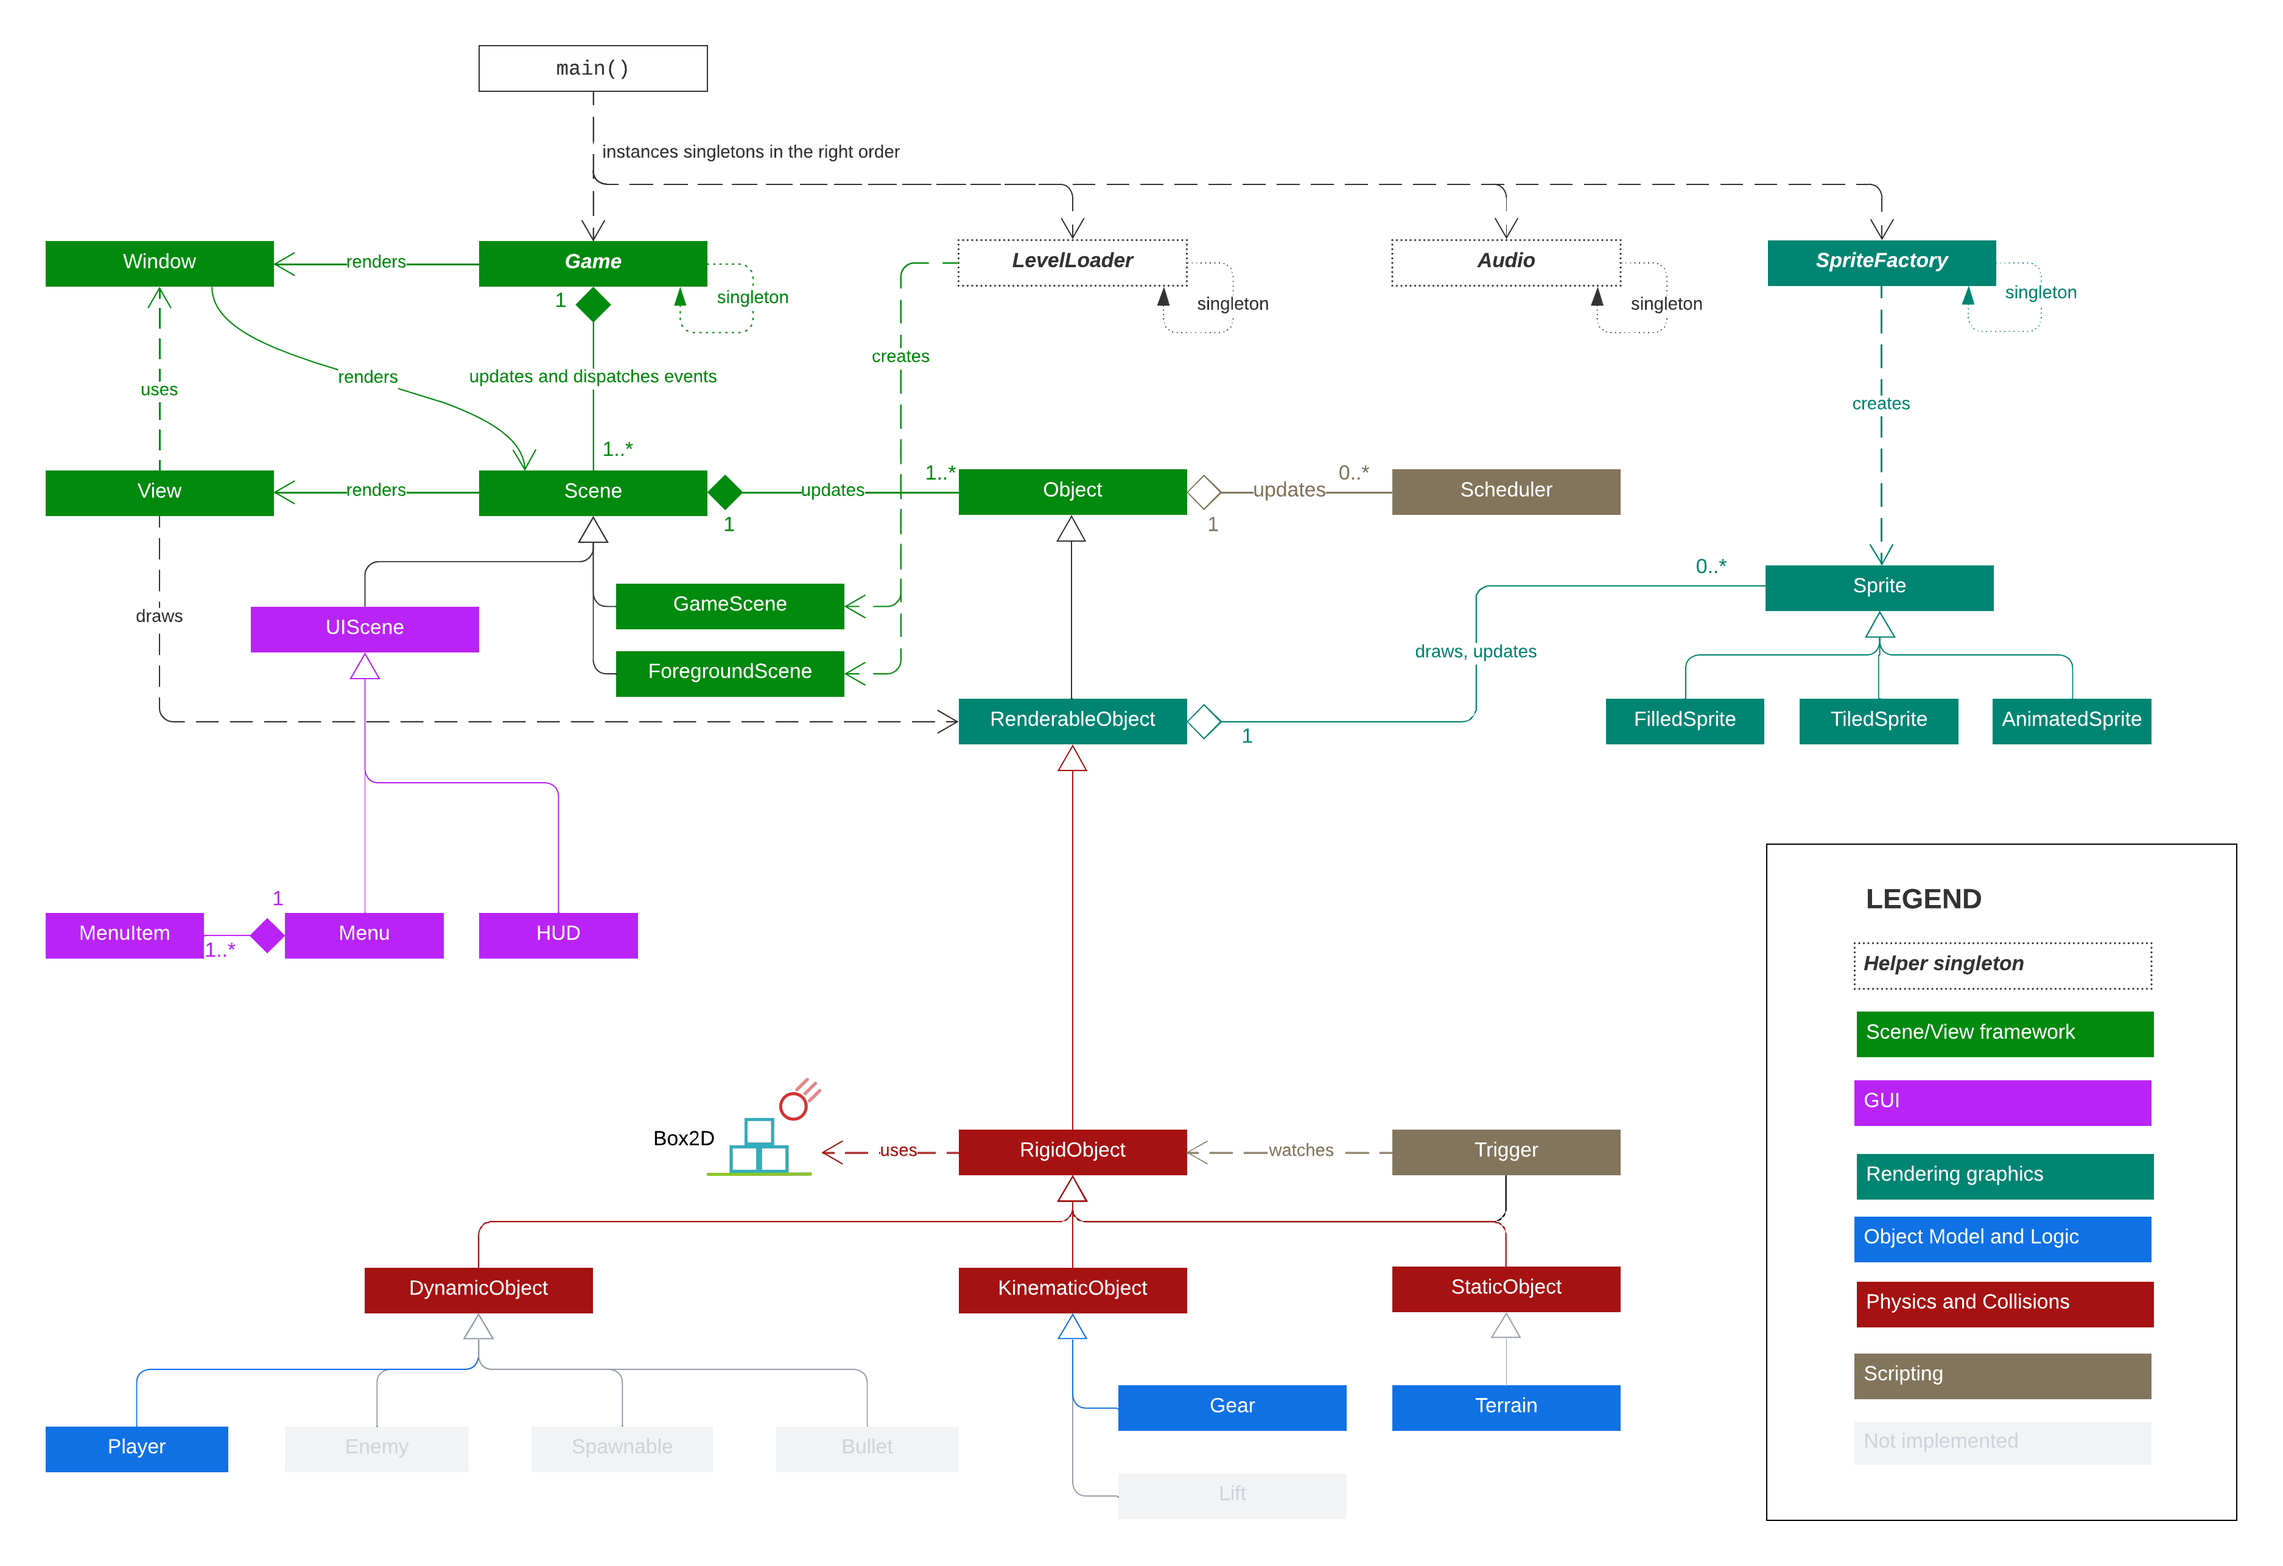
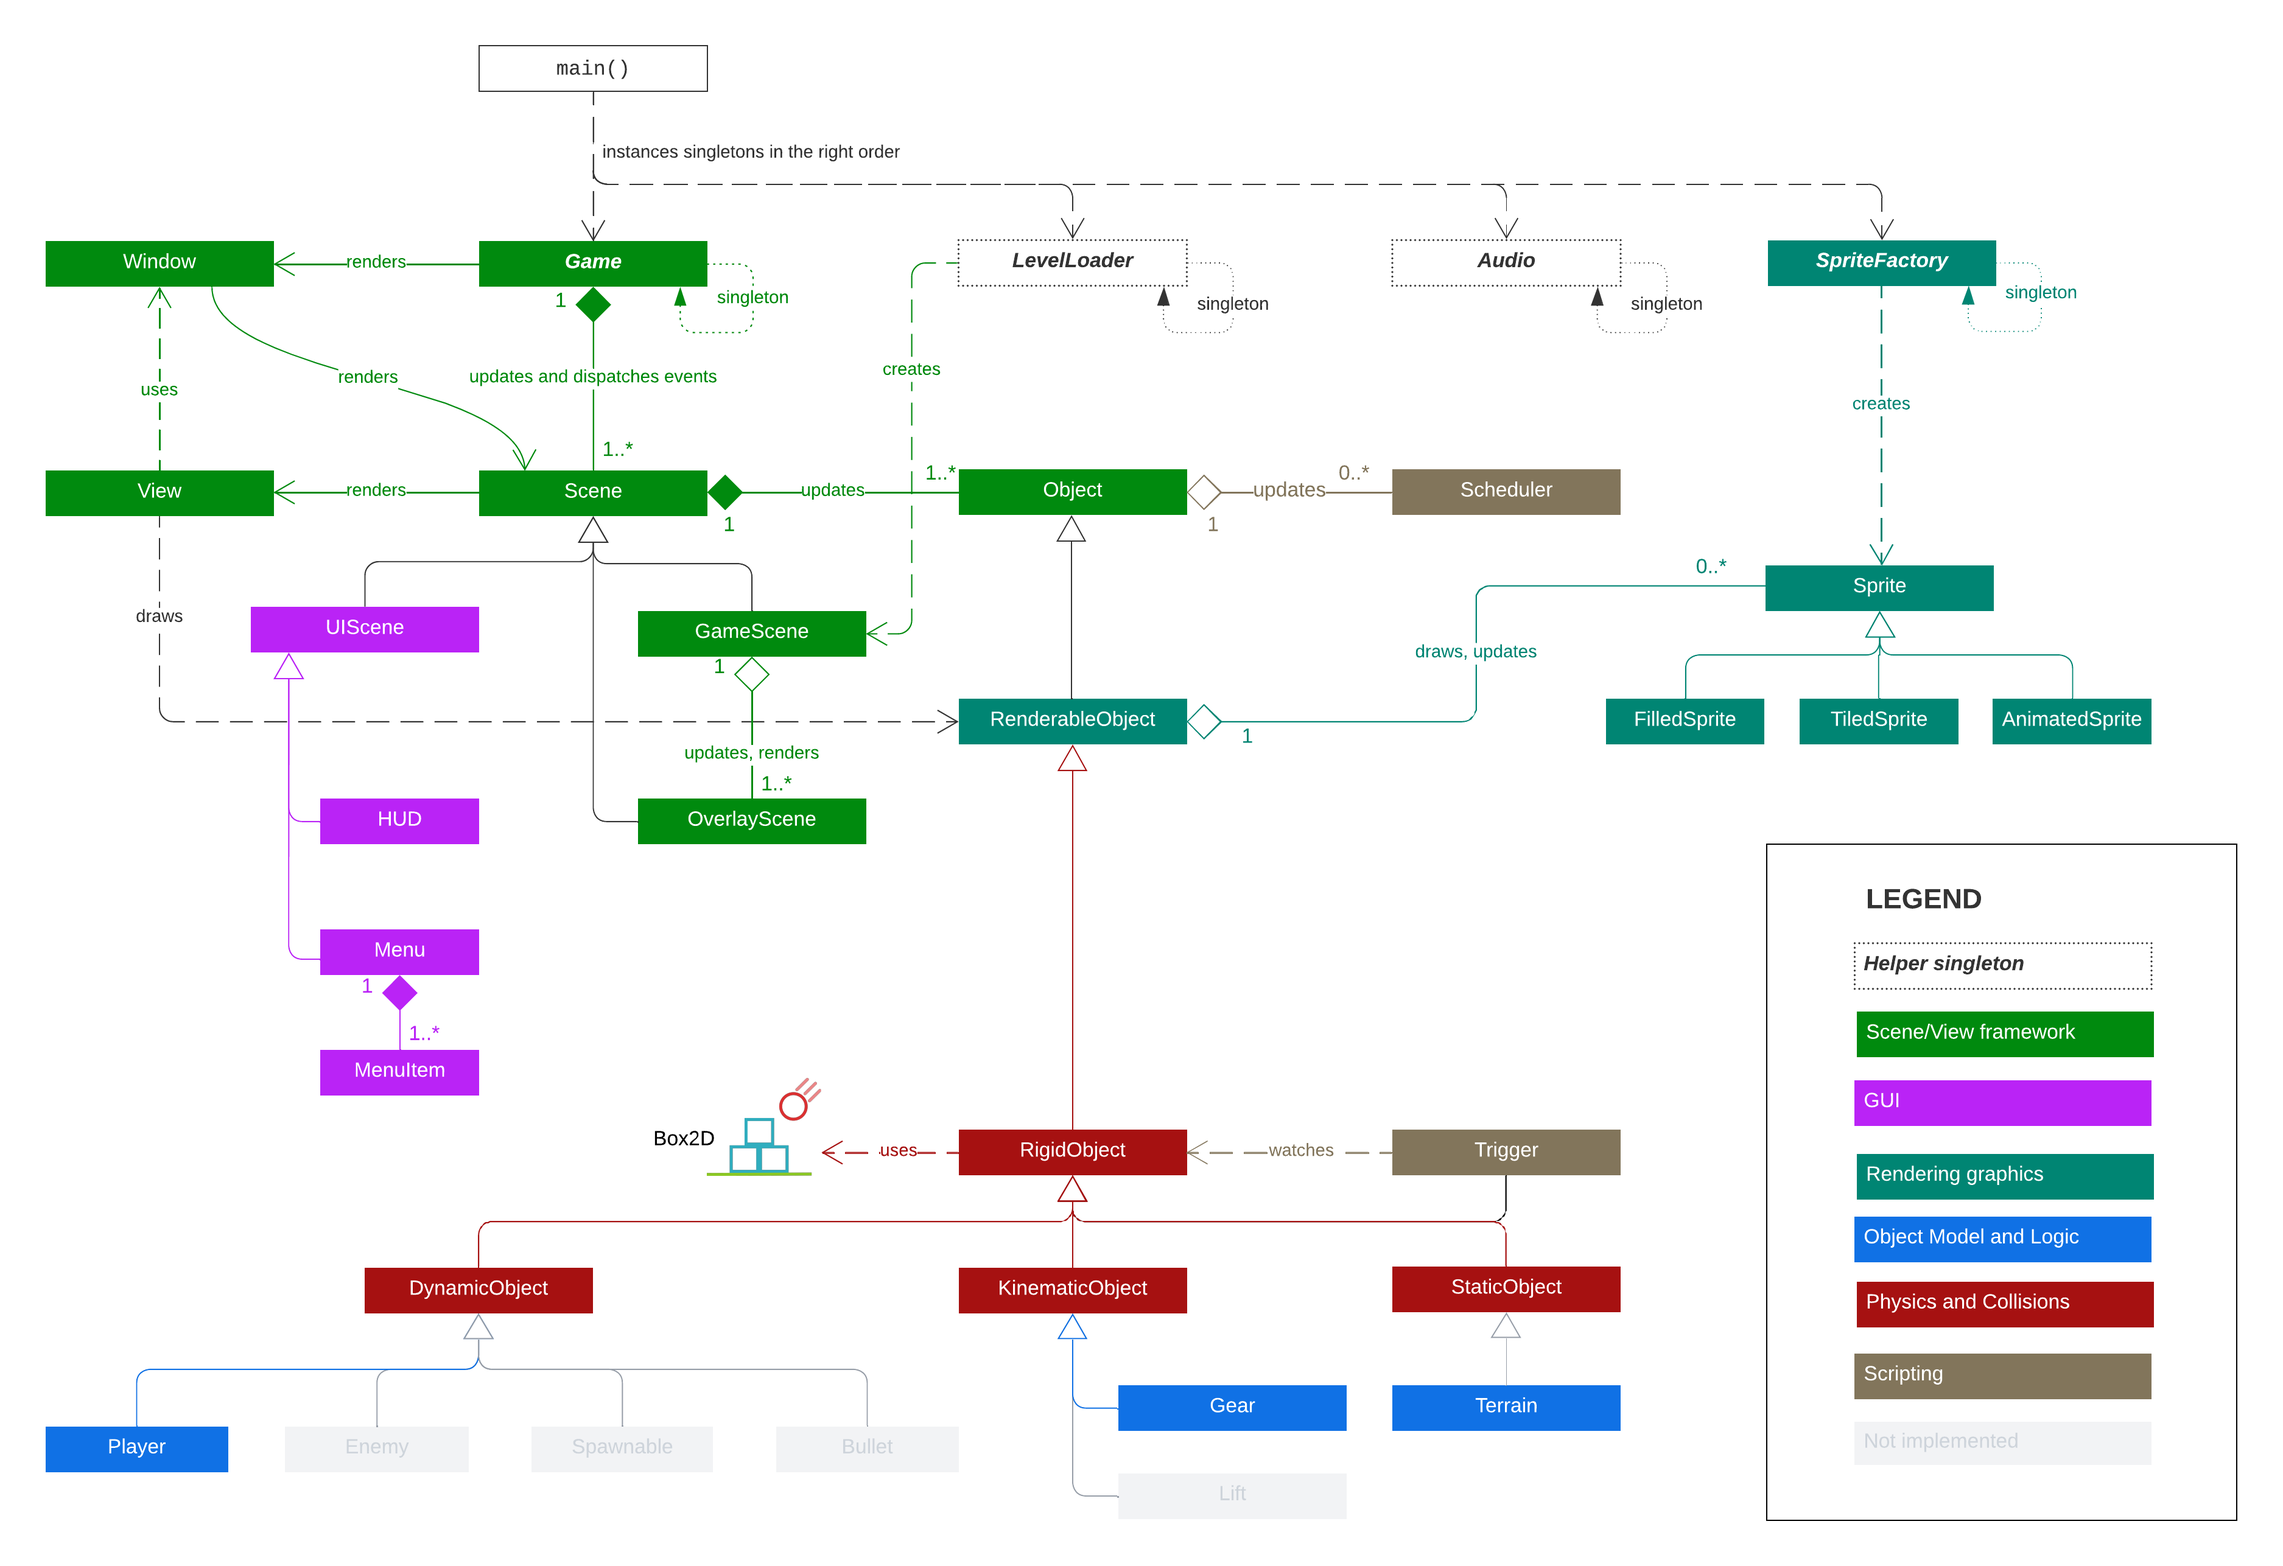
refactoring ForegroundScene into OverlayScene

Changed region(s): [[0.0, 0.4975, 0.2808, 0.7151], [0.2496, 0.3731, 0.4056, 0.5597], [0.3744, 0.2176, 0.4056, 0.2487]]

diff --git a/Proto-ComplexPlatformer-Box2D/GameScene.cpp b/Proto-ComplexPlatformer-Box2D/GameScene.cpp
@@ -16,6 +16,7 @@
 #include "RigidObject.h"
 #include "Player.h"
 #include "Box.h"
+#include "OverlayScene.h"
 
 using namespace agp;
 
@@ -60,6 +61,14 @@ void GameScene::update(float timeToSimulate)
 	if (!_active)
 		return;
 
+
+	// update overlay scenes
+	for (auto& bgScene : _backgroundScenes)
+		bgScene->update(timeToSimulate);
+	for (auto& fgScene : _foregroundScenes)
+		fgScene->update(timeToSimulate);
+
+
 	// controls
 	if (_right_pressed && !_left_pressed)
 	{
@@ -79,55 +88,57 @@ void GameScene::update(float timeToSimulate)
 
 	_player->setRunning(_run_pressed);
 
-	// physics
-	/*_timeToSimulate += timeToSimulate;
+
+	// semi-fixed time step
+	_timeToSimulate += timeToSimulate;
 	while (_timeToSimulate >= _dt)
 	{
+		// Box2D physics
 		b2World_Step(_worldId, _dt, _subStepCount);
 		_timeToSimulate -= _dt;
-	}*/
-	b2World_Step(_worldId, timeToSimulate, _subStepCount);
 
-	// collisions (logic)
-	b2ContactEvents contactEvents = b2World_GetContactEvents(_worldId);
-	for (int i = 0; i < contactEvents.beginCount; ++i)
-	{
-		b2ContactBeginTouchEvent* beginEvent = contactEvents.beginEvents + i;
-	
-		RigidObject* objA = ((RigidObject*)b2Body_GetUserData(b2Shape_GetBody(beginEvent->shapeIdA)));
-		RigidObject* objB = ((RigidObject*)b2Body_GetUserData(b2Shape_GetBody(beginEvent->shapeIdB)));
+		// collisions (logic)
+		b2ContactEvents contactEvents = b2World_GetContactEvents(_worldId);
+		for (int i = 0; i < contactEvents.beginCount; ++i)
+		{
+			b2ContactBeginTouchEvent* beginEvent = contactEvents.beginEvents + i;
 
-		Vec2Df normal = { beginEvent->manifold.normal.x, beginEvent->manifold.normal.y };
+			RigidObject* objA = ((RigidObject*)b2Body_GetUserData(b2Shape_GetBody(beginEvent->shapeIdA)));
+			RigidObject* objB = ((RigidObject*)b2Body_GetUserData(b2Shape_GetBody(beginEvent->shapeIdB)));
 
-		objA->collision(objB, true, normal, beginEvent->shapeIdA, beginEvent->shapeIdB);
-		objB->collision(objA, true, -normal, beginEvent->shapeIdB, beginEvent->shapeIdA);
+			Vec2Df normal = { beginEvent->manifold.normal.x, beginEvent->manifold.normal.y };
+
+			objA->collision(objB, true, normal, beginEvent->shapeIdA, beginEvent->shapeIdB);
+			objB->collision(objA, true, -normal, beginEvent->shapeIdB, beginEvent->shapeIdA);
+		}
+		for (int i = 0; i < contactEvents.endCount; ++i)
+		{
+			b2ContactEndTouchEvent* endEvent = contactEvents.endEvents + i;
+			RigidObject* objA = ((RigidObject*)b2Body_GetUserData(b2Shape_GetBody(endEvent->shapeIdA)));
+			RigidObject* objB = ((RigidObject*)b2Body_GetUserData(b2Shape_GetBody(endEvent->shapeIdB)));
+
+			// once a contact has ended, contact normal is undefined
+			objA->collision(objB, false, Vec2Df(), endEvent->shapeIdA, endEvent->shapeIdB);
+			objB->collision(objA, false, Vec2Df(), endEvent->shapeIdB, endEvent->shapeIdA);
+		}
+
+		// triggers (=sensors in Box2D)
+		b2SensorEvents sensorEvents = b2World_GetSensorEvents(_worldId);
+		for (int i = 0; i < sensorEvents.beginCount; ++i)
+		{
+			b2SensorBeginTouchEvent* beginTouch = sensorEvents.beginEvents + i;
+			RigidObject* objA = ((RigidObject*)b2Body_GetUserData(b2Shape_GetBody(beginTouch->sensorShapeId)));
+			RigidObject* objB = ((RigidObject*)b2Body_GetUserData(b2Shape_GetBody(beginTouch->visitorShapeId)));
+			objA->collision(objB, true, Vec2Df(), beginTouch->sensorShapeId, beginTouch->visitorShapeId);
+		}
+
+		// logic and animations
+		auto allObjects = objects();
+		for (auto& obj : allObjects)
+			if (!obj->freezed())
+				obj->update(timeToSimulate);
 	}
-	for (int i = 0; i < contactEvents.endCount; ++i)
-	{
-		b2ContactEndTouchEvent* endEvent = contactEvents.endEvents + i;
-		RigidObject* objA = ((RigidObject*)b2Body_GetUserData(b2Shape_GetBody(endEvent->shapeIdA)));
-		RigidObject* objB = ((RigidObject*)b2Body_GetUserData(b2Shape_GetBody(endEvent->shapeIdB)));
 
-		// once a contact has ended, contact normal is undefined
-		objA->collision(objB, false, Vec2Df(), endEvent->shapeIdA, endEvent->shapeIdB);
-		objB->collision(objA, false, Vec2Df(), endEvent->shapeIdB, endEvent->shapeIdA);
-	}
-
-	// triggers (=sensors in Box2D)
-	b2SensorEvents sensorEvents = b2World_GetSensorEvents(_worldId);
-	for (int i = 0; i < sensorEvents.beginCount; ++i)
-	{
-		b2SensorBeginTouchEvent* beginTouch = sensorEvents.beginEvents + i;
-		RigidObject* objA = ((RigidObject*)b2Body_GetUserData(b2Shape_GetBody(beginTouch->sensorShapeId)));
-		RigidObject* objB = ((RigidObject*)b2Body_GetUserData(b2Shape_GetBody(beginTouch->visitorShapeId)));
-		objA->collision(objB, true, Vec2Df(), beginTouch->sensorShapeId, beginTouch->visitorShapeId);
-	}
-
-	// logic and animations
-	auto allObjects = objects();
-	for (auto& obj : allObjects)
-		if (!obj->freezed())
-			obj->update(timeToSimulate);
 
 	// camera
 	// center view on player with left margin (12 scene units) with going back
@@ -171,4 +182,18 @@ void GameScene::event(SDL_Event& evt)
 	_right_pressed = state[SDL_SCANCODE_RIGHT];
 	_left_pressed = state[SDL_SCANCODE_LEFT];
 	_run_pressed = state[SDL_SCANCODE_Z];
+}
+
+void GameScene::render()
+{
+	if (_active)
+	{
+		for (auto& bgScene : _backgroundScenes)
+			bgScene->render();
+
+		_view->render();
+
+		for (auto& fgScene : _foregroundScenes)
+			fgScene->render();
+	}
 }

diff --git a/Proto-ComplexPlatformer-Box2D/LevelLoader.cpp b/Proto-ComplexPlatformer-Box2D/LevelLoader.cpp
@@ -11,7 +11,7 @@
 #include "SpriteFactory.h"
 #include "RenderableObject.h"
 #include "GameScene.h"
-#include "ForegroundScene.h"
+#include "OverlayScene.h"
 #include "StaticObject.h"
 #include "Terrain.h"
 #include "Player.h"
@@ -33,22 +33,15 @@ LevelLoader::LevelLoader()
 	// e.g. load level maps from disk
 }
 
-std::vector<Scene*> LevelLoader::load(const std::string& name)
+GameScene* LevelLoader::load(const std::string& name)
 {
 	SpriteFactory* spriteLoader = SpriteFactory::instance();
-
-	std::vector<Scene*> gameScenes;
+	
+	GameScene* world = nullptr;
 
 	if (name == "level0")
 	{
-		GameScene* world = new GameScene(RectF(0, 0, 96, 13, true), 1 / 60.0f);
-
-		// parallax backgrounds and foregrounds
-		ForegroundScene* skyBG = new ForegroundScene(world, spriteLoader->get("bg_sky"));
-		ForegroundScene* housesBG = new ForegroundScene(world, spriteLoader->get("bg_houses"), { 0.2f, 1 }, true);
-		ForegroundScene* grassBG = new ForegroundScene(world, spriteLoader->get("bg_grass"), { 0.4f, 1 }, true);
-		ForegroundScene* fogFG = new ForegroundScene(world, spriteLoader->get("fg_fog"), {1.2f, 1}, true);
-		ForegroundScene* rainFG = new ForegroundScene(world, spriteLoader->get("rain"));
+		world = new GameScene(RectF(0, 0, 96, 13, true), 1 / 100.0f);
 
 		// game foreground
 		new RenderableObject(world, world->rect(), spriteLoader->get("fg_ground"), 0);
@@ -68,19 +61,18 @@ std::vector<Scene*> LevelLoader::load(const std::string& name)
 		new Gear(world, RotatedRectF({ 90, 2 }, { 15, 15 }, 0, true), spriteLoader->get("gear"), -1);
 		new Gear(world, RotatedRectF({ 103, 2 }, { 15, 15 }, 0, true), spriteLoader->get("gear"), 1);
 
-		Player* player = new Player(world, { 3, 10 });
-		world->setPlayer(player);
+		// player
+		world->setPlayer(new Player(world, { 3, 10 }));
 		
-		// scene layering
-		gameScenes.push_back(skyBG);
-		gameScenes.push_back(housesBG);
-		gameScenes.push_back(grassBG);
-		gameScenes.push_back(world);
-		gameScenes.push_back(rainFG);
-		gameScenes.push_back(fogFG);
+		// decorative backgrounds and foregrounds
+		world->addBackgroundScene(new OverlayScene(world, spriteLoader->get("bg_sky")));
+		world->addBackgroundScene(new OverlayScene(world, spriteLoader->get("bg_houses"), { 0.2f, 1 }, true));
+		world->addBackgroundScene(new OverlayScene(world, spriteLoader->get("bg_grass"), { 0.4f, 1 }, true));
+		world->addForegroundScene(new OverlayScene(world, spriteLoader->get("rain")));
+		world->addForegroundScene(new OverlayScene(world, spriteLoader->get("fg_fog"), { 1.2f, 1 }, true));
 	}
 	else
 		std::cerr << "Unrecognized game scene name \"" << name << "\"\n";
 
-	return gameScenes;
+	return world;
 }

diff --git a/Proto-ComplexPlatformer-Box2D/GameScene.h b/Proto-ComplexPlatformer-Box2D/GameScene.h
@@ -14,13 +14,13 @@
 namespace agp
 {
 	class GameScene;
+	class OverlayScene;
 	class Player;
 }
 
 // GameScene (or World) class
 // - specialized update(dt) to semifixed timestep
 // - may provide more efficient access to game objects (e.g. quadtree)
-// - can/should be customized for the specific game to implement (here, supermariobros-like)
 class agp::GameScene : public Scene
 {
 	private:
@@ -31,13 +31,16 @@ class agp::GameScene : public Scene
 		b2WorldId _worldId;			// Box2D world handle
 		bool _collidersVisible;
 
+		// scene overlays
+		std::vector < OverlayScene*> _backgroundScenes;
+		std::vector < OverlayScene*> _foregroundScenes;
+
 		// player and controls
 		Player* _player;
 		bool _right_pressed;
 		bool _left_pressed;
 		bool _jump_pressed;
 		bool _run_pressed;
-
 		Vec2Df _cameraTranslateVel;	// camera scroll velocity (in scene units)
 		float _cameraZoomVel;		// camera zoom velocity (in [0,1] relative scale units)
 
@@ -52,10 +55,15 @@ class agp::GameScene : public Scene
 		void setPlayer(Player* player) { _player = player; }
 		bool collidersVisible() { return _collidersVisible; }
 		void toggleColliders() { _collidersVisible = !_collidersVisible; }
+		void addBackgroundScene(OverlayScene* bgScene) { _backgroundScenes.push_back(bgScene); }
+		void addForegroundScene(OverlayScene* fgScene) { _foregroundScenes.push_back(fgScene); }
 
 		// overrides scene object selection (+octree, NOT implemented)
 		//virtual std::list<Object*> objects(const RectF& cullingRect) override;
 	
+		// overrides Scene's render (+overlay scenes)
+		virtual void render();
+
 		// implements game scene update logic
 		virtual void update(float timeToSimulate) override;
 

diff --git a/Proto-ComplexPlatformer-Box2D/OverlayScene.h b/Proto-ComplexPlatformer-Box2D/OverlayScene.h
@@ -12,15 +12,15 @@
 
 namespace agp
 {
-	class ForegroundScene;
+	class OverlayScene;
 	class RenderableObject;
 	class Sprite;
 }
 
-// ForegroundScene class
-// - draws foreground sprite with optional parallax effect
+// OverlayScene class
+// - draws background or foreground scene with optional parallax effect
 // - when constructed, it uses GameScene's view rect size to size its own view rect
-class agp::ForegroundScene : public Scene
+class agp::OverlayScene : public Scene
 {
 	private:
 
@@ -31,12 +31,12 @@ class agp::ForegroundScene : public Scene
 
 	public:
 
-		ForegroundScene(
+		OverlayScene(
 			GameScene* gameScene,
 			Sprite* bgSprite,
 			const Vec2Df& parallaxVel = Vec2Df(),
 			bool seamless = false);		// if true, bgSprite must be a FilledSprite (repeats itself as needed)
-		virtual ~ForegroundScene() {};
+		virtual ~OverlayScene() {};
 
 		// implements parallax logic
 		virtual void update(float timeToSimulate) override;

diff --git a/Proto-ComplexPlatformer-Box2D/OverlayScene.cpp b/Proto-ComplexPlatformer-Box2D/OverlayScene.cpp
@@ -7,7 +7,7 @@
 // See LICENSE in root directory for full details.
 // ----------------------------------------------------------------
 
-#include "ForegroundScene.h"
+#include "OverlayScene.h"
 #include "RenderableObject.h"
 #include "Sprite.h"
 #include "View.h"
@@ -15,7 +15,7 @@
 
 using namespace agp;
 
-ForegroundScene::ForegroundScene(GameScene* gameScene, Sprite* bgSprite, const Vec2Df& parallaxVel, bool seamless)
+OverlayScene::OverlayScene(GameScene* gameScene, Sprite* bgSprite, const Vec2Df& parallaxVel, bool seamless)
 	: Scene(gameScene->rect())
 {
 	_gameScene = gameScene;
@@ -35,7 +35,7 @@ ForegroundScene::ForegroundScene(GameScene* gameScene, Sprite* bgSprite, const V
 }
 
 // implements parallax logic
-void ForegroundScene::update(float timeToSimulate)
+void OverlayScene::update(float timeToSimulate)
 {
 	Scene::update(timeToSimulate);
 

diff --git a/Proto-ComplexPlatformer-Box2D/Game.cpp b/Proto-ComplexPlatformer-Box2D/Game.cpp
@@ -38,10 +38,7 @@ Game::Game()
 
 void Game::init()
 {
-	auto gameScenes = LevelLoader::instance()->load("level0");
-	for (auto& scene : gameScenes)
-		pushScene(scene);
-
+	pushScene(LevelLoader::instance()->load("level0"));
 	_hud = new HUD();
 	pushScene(_hud);
 	pushScene(Menu::mainMenu());

diff --git a/Proto-ComplexPlatformer-Box2D/LevelLoader.h b/Proto-ComplexPlatformer-Box2D/LevelLoader.h
@@ -14,7 +14,7 @@
 
 namespace agp
 {
-	class Scene;
+	class GameScene;
 	class LevelLoader;
 }
 
@@ -32,5 +32,5 @@ class agp::LevelLoader
 		// singleton
 		static LevelLoader* instance();
 
-		std::vector<Scene*> load(const std::string& name);
+		GameScene* load(const std::string& name);
 };

diff --git a/Proto-ComplexPlatformer-Box2D/version.h b/Proto-ComplexPlatformer-Box2D/version.h
@@ -13,7 +13,7 @@ namespace agp
 {
     // Version components
     constexpr int VERSION_MAJOR = 1;
-    constexpr int VERSION_MINOR = 0;
+    constexpr int VERSION_MINOR = 1;
     constexpr int VERSION_PATCH = 0;
 
     // Function to retrieve the version string
